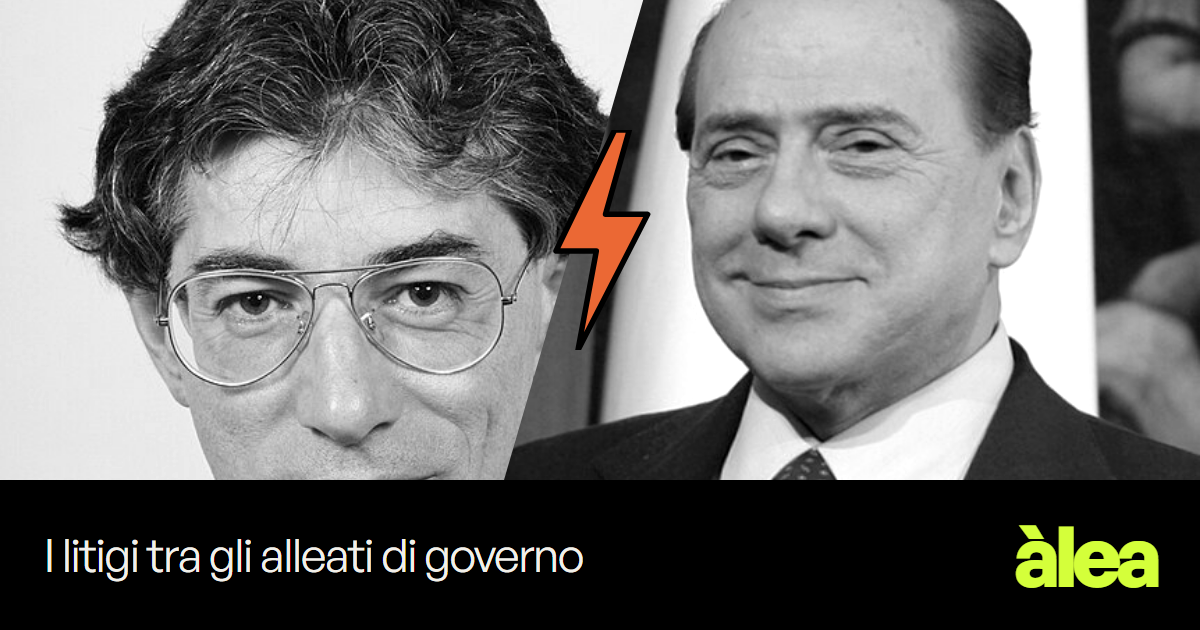
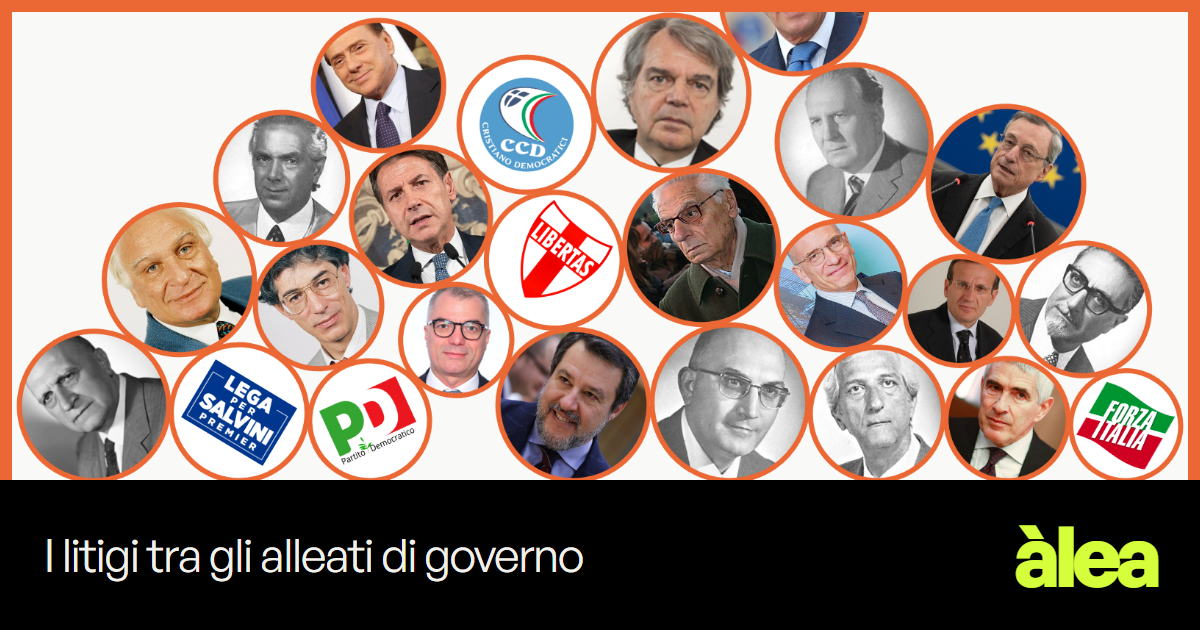
copertine: figurine verticali con cornice colorata, alla The Pudding
L'ultimo articolo resta orizzontale (16:10), gli altri diventano verticali (4:5). Le copertine sono immagini
generate da scripts/copertine/*.html con npm run copertine, in due formati.
- litigi: le teste dei politici e i simboli dei partiti ammucchiati, come nel carosello
- moneta: il confronto tra la sequenza inventata e una moneta vera
Le anteprime per i social usano le stesse copertine.

diff --git a/scripts/copertine/litigi.html b/scripts/copertine/litigi.html
@@ -1,0 +1,74 @@
+<!doctype html>
+<!-- Copertina del n. 1 (litigi tra alleati): le teste dei politici e i simboli dei partiti cadute e ammucchiate,
+     come nella prima slide del carosello (discorsi_camera/applausi/carosello/b3_pudding_template.html).
+     ?f=o orizzontale 1600x1000 (ultimo articolo), ?f=v verticale 1200x1500 (figurina). Si rigenera con npm run copertine -->
+<html lang="it">
+<head>
+<meta charset="utf-8">
+<style>
+  html, body { margin: 0; overflow: hidden; background: #f9f9f7; }
+  svg { display: block; }
+</style>
+</head>
+<body>
+<svg id="svg"></svg>
+<script>
+const f = new URLSearchParams(location.search).get("f") || "o";
+// misure per formato: larghezza, altezza, raggio delle teste (minimo + variabile), quanto si allarga il mucchio
+const M = f === "v" ? { W: 1200, H: 1500, r0: 96, dr: 40, spread: 300, suolo: 1500 - 120 }
+                    : { W: 1600, H: 1000, r0: 74, dr: 32, spread: 420, suolo: 1000 - 90 };
+const svg = document.getElementById("svg");
+svg.setAttribute("width", M.W); svg.setAttribute("height", M.H);
+svg.setAttribute("viewBox", `0 0 ${M.W} ${M.H}`);
+const NS = "http://www.w3.org/2000/svg";
+const el = (p, t, a) => { const e = document.createElementNS(NS, t); for (const k in a) e.setAttribute(k, a[k]); p.append(e); return e; };
+const defs = el(svg, "defs", {});
+
+// la linea del tempo su cui cadono
+el(svg, "line", { x1: 0, x2: M.W, y1: M.suolo + 2, y2: M.suolo + 2, stroke: "#0b0b0b", "stroke-width": 3 });
+
+// Piccola simulazione: le teste cadono una dopo l'altra, si urtano, rotolano e si fermano.
+// Caso con seme fisso: il mucchio è sempre lo stesso.
+let seme = 11;
+const caso = () => (seme = (seme * 16807) % 2147483647) / 2147483647;
+const TESTE = ["silvio_berlusconi", "umberto_bossi", "matteo_salvini", "mario_draghi", "giuseppe_conte", "enrico_letta", "renato_brunetta",
+  "gianfranco_fini", "pier_ferdinando_casini", "marco_pannella", "loris_fortuna", "angelo_castelli", "sergio_castellaneta", "alessandro_cè",
+  "filippo_scerra", "giovanni_roberti", "salvatore_frasca", "attilio_piccioni", "randolfo_pacciardi"].map((f) => ({ f, logo: false }))
+  .concat(["dc_1943", "fi_1994", "lega_2018", "pd", "ccd"].map((f) => ({ f, logo: true })));
+for (let i = TESTE.length - 1; i > 0; i--) { const j = Math.floor(caso() * (i + 1)); [TESTE[i], TESTE[j]] = [TESTE[j], TESTE[i]]; }
+TESTE.forEach((t, i) => {
+  t.r = M.r0 + caso() * M.dr;
+  t.x = M.W / 2 + (caso() + caso() + caso() - 1.5) * M.spread; t.y = -200 - i * 2.6 * M.r0;
+  t.px = t.x; t.py = t.y;
+  t.rot = (caso() - .5) * 80;
+});
+for (let passo = 0; passo < 7000; passo++) {
+  TESTE.forEach((t) => {                                     // gravità, con un po' di attrito
+    const vx = (t.x - t.px) * .9, vy = (t.y - t.py) * .99;
+    t.px = t.x; t.py = t.y;
+    t.x += vx; t.y += vy + .6;
+  });
+  for (let k = 0; k < 4; k++) {
+    for (let i = 0; i < TESTE.length; i++) for (let j = i + 1; j < TESTE.length; j++) {
+      const p = TESTE[i], q = TESTE[j], dx = q.x - p.x, dy = q.y - p.y, d = Math.hypot(dx, dy) || 1, min = p.r + q.r + 4;
+      if (d < min) { const m = (min - d) / 2 / d; p.x -= dx * m; p.y -= dy * m; q.x += dx * m; q.y += dy * m;
+        p.px += (p.x - p.px) * .35; q.px += (q.x - q.px) * .35; }
+    }
+    TESTE.forEach((t) => {
+      if (t.y > M.suolo - t.r) { t.y = M.suolo - t.r; t.px = t.x - (t.x - t.px) * .2; }   // il suolo frena chi ci rotola sopra
+      t.x = Math.min(M.W - 10 - t.r, Math.max(10 + t.r, t.x));
+    });
+  }
+}
+TESTE.forEach((t, n) => {
+  const id = "c" + n;
+  const g = el(svg, "g", { transform: `rotate(${t.rot.toFixed(1)} ${t.x} ${t.y})` });
+  el(el(defs, "clipPath", { id }), "circle", { cx: t.x, cy: t.y, r: t.r });
+  el(g, "circle", { cx: t.x, cy: t.y, r: t.r + 3, fill: "#fff" });
+  if (t.logo) el(g, "image", { href: `../../public/litigi-tra-alleati/loghi/${t.f}.png`, x: t.x - t.r * .7, y: t.y - t.r * .7, width: t.r * 1.4, height: t.r * 1.4, preserveAspectRatio: "xMidYMid meet" });
+  else el(g, "image", { href: `../../public/litigi-tra-alleati/foto/${t.f}.jpg`, x: t.x - t.r, y: t.y - t.r, width: 2 * t.r, height: 2 * t.r, preserveAspectRatio: "xMidYMid slice", "clip-path": `url(#${id})` });
+  el(g, "circle", { cx: t.x, cy: t.y, r: t.r, fill: "none", stroke: "#eb6834", "stroke-width": f === "v" ? 8 : 7 });
+});
+</script>
+</body>
+</html>

diff --git a/scripts/og/prova-a-fare-il-caso.html b/scripts/og/prova-a-fare-il-caso.html
@@ -1,50 +1,21 @@
 <!doctype html>
-<!-- Immagine di anteprima per i social (1200x630). Si rigenera con npm run og -->
+<!-- Immagine di anteprima per i social (1200x630): la copertina orizzontale (public/img/copertine/moneta-o.png)
+     con la cornice colorata e sotto il titolo. Si rigenera con npm run copertine e poi npm run og -->
 <html lang="it">
 <head>
 <meta charset="utf-8">
 <link href="https://api.fontshare.com/v2/css?f[]=general-sans@400,700&display=swap" rel="stylesheet">
 <style>
   html, body { margin: 0; width: 1200px; height: 630px; overflow: hidden; background: #000; font-family: "General Sans", sans-serif; }
-  /* la stessa copertina della home (src/components/Copertina.astro, "moneta"), ritagliata in 1200x480 */
-  .cop { position: absolute; left: 0; top: 0; width: 1200px; height: 480px; display: block; }
+  .cop { position: absolute; left: 0; top: 0; width: 1200px; height: 480px; box-sizing: border-box; border: 12px solid #c23a2b; border-bottom: 0;
+         background: url(../../public/img/copertine/moneta-o.png) center / cover; }
   .piede { position: absolute; left: 0; right: 0; bottom: 0; height: 150px; display: flex; align-items: center; justify-content: space-between; padding: 0 44px; color: #f2f0ea; }
   .tit { font-size: 46px; line-height: 1.05; letter-spacing: -0.03em; max-width: 840px; }
   .logo { font-weight: 700; font-size: 84px; letter-spacing: -0.075em; color: #d4ff3a; line-height: 1; }
 </style>
 </head>
 <body>
-  <svg class="cop" id="cop" viewBox="0 0 1600 1000" preserveAspectRatio="xMidYMid slice">
-    <defs>
-      <filter id="bic" color-interpolation-filters="sRGB">
-        <feColorMatrix type="saturate" values="0" />
-        <feComponentTransfer>
-          <feFuncR type="table" tableValues="0.12 0.957" />
-          <feFuncG type="table" tableValues="0.11 0.937" />
-          <feFuncB type="table" tableValues="0.10 0.89" />
-        </feComponentTransfer>
-      </filter>
-      <clipPath id="sx"><polygon points="0,0 930,0 690,1000 0,1000" /></clipPath>
-      <clipPath id="dx"><polygon points="970,0 1600,0 1600,1000 730,1000" /></clipPath>
-    </defs>
-    <rect width="1600" height="1000" fill="#f4efe3" />
-    <g clip-path="url(#sx)"><image href="../../public/img/eniac_operatrici.jpg" x="-60" y="0" width="1080" height="1000" preserveAspectRatio="xMidYMid slice" filter="url(#bic)" /></g>
-    <g clip-path="url(#dx)"><image href="../../public/img/ibm_704.jpg" x="700" y="0" width="900" height="1000" preserveAspectRatio="xMidYMid slice" filter="url(#bic)" /></g>
-    <!-- la linea un po' più in alto che in home: qui la foto è tagliata sopra e sotto -->
-    <g transform="translate(0,-130)">
-    <path id="alone" fill="none" stroke="#f4efe3" stroke-width="26" stroke-linejoin="round" stroke-linecap="round" />
-    <path id="linea" fill="none" stroke="#c23a2b" stroke-width="12" stroke-linejoin="round" stroke-linecap="round" />
-    </g>
-  </svg>
+  <div class="cop"></div>
   <div class="piede"><div class="tit">Non siamo bravi a simulare la casualità</div><div class="logo">àlea</div></div>
-<script>
-  // stessa passeggiata della copertina in home (seme 61)
-  function seme(a) { return () => { a |= 0; a = a + 0x6D2B79F5 | 0; let t = Math.imul(a ^ a >>> 15, 1 | a); t = t + Math.imul(t ^ t >>> 7, 61 | t) ^ t; return ((t ^ t >>> 14) >>> 0) / 4294967296; }; }
-  const r = seme(61);
-  let v = 0;
-  const d = "M" + Array.from({ length: 101 }, (_, i) => { if (i) v += r() < .5 ? 1 : -1; return `${40 + i * 15.2},${560 - v * 26}`; }).join("L");
-  document.getElementById("alone").setAttribute("d", d);
-  document.getElementById("linea").setAttribute("d", d);
-</script>
 </body>
 </html>

diff --git a/scripts/copertine/moneta.html b/scripts/copertine/moneta.html
@@ -1,0 +1,64 @@
+<!doctype html>
+<!-- Copertina del n. 2 (moneta): il confronto dell'articolo tra una sequenza inventata e una moneta vera,
+     con la serie più lunga evidenziata. Stesso stile di Desktop/moneta/moneta.html (.confronto).
+     ?f=o orizzontale 1600x1000 (griglie affiancate), ?f=v verticale 1200x1500 (una sopra l'altra).
+     Si rigenera con npm run copertine -->
+<html lang="it">
+<head>
+<meta charset="utf-8">
+<link href="https://fonts.googleapis.com/css2?family=Courier+Prime:wght@400;700&display=block" rel="stylesheet">
+<style>
+  :root { --fondo: #f4efe3; --testo: #1f1d19; --macchina: #3a3631; --tu: #c23a2b; --tu-testo: #b3352a; }
+  html, body { margin: 0; overflow: hidden; background: var(--fondo); font-family: "Courier Prime", monospace; }
+  .pagina { display: flex; align-items: center; justify-content: center; gap: 72px; }
+  .o .pagina { width: 1600px; height: 1000px; }
+  .v .pagina { width: 1200px; height: 1500px; flex-direction: column; gap: 56px; }
+  h3 { margin: 0 0 14px; font-size: 34px; font-weight: 700; }
+  .tu h3 { color: var(--tu-testo); }
+  .vera h3 { color: var(--testo); }
+  .griglia { display: grid; grid-template-columns: repeat(10, 1fr); gap: 5px; width: 640px; }
+  .v .griglia { width: 600px; }
+  .cella { aspect-ratio: 1; display: flex; align-items: center; justify-content: center; font-size: 30px; }
+  .tu .cella { color: var(--tu-testo); font-weight: 700; }
+  .vera .cella { color: var(--macchina); }
+  .tu .cella.serie { background: var(--tu); color: var(--fondo); }
+  .vera .cella.serie { background: var(--macchina); color: var(--fondo); font-weight: 700; }
+</style>
+</head>
+<body>
+<div class="pagina" id="pagina"></div>
+<script>
+const f = new URLSearchParams(location.search).get("f") || "o";
+document.body.className = f;
+
+// generatore con seme (mulberry32): le due sequenze sono sempre le stesse
+function seme(a) { return () => { a |= 0; a = a + 0x6D2B79F5 | 0; let t = Math.imul(a ^ a >>> 15, 1 | a); t = t + Math.imul(t ^ t >>> 7, 61 | t) ^ t; return ((t ^ t >>> 14) >>> 0) / 4294967296; }; }
+function serieLunga(s) {
+  let max = 1, cur = 1, fine = 0;
+  for (let i = 1; i < s.length; i++) { cur = s[i] === s[i - 1] ? cur + 1 : 1; if (cur > max) { max = cur; fine = i; } }
+  return { lung: max, da: fine - max + 1, a: fine };
+}
+const cambi = (s) => s.reduce((n, x, i) => n + (i && x !== s[i - 1] ? 1 : 0), 0);
+
+// inventata: le stesse abitudini della sequenza di esempio dell'articolo (dopo una serie, la voglia di cambiare cresce);
+// si tiene la prima con serie più lunga di 4 e troppi cambi
+const r = seme(2026), voglia = [0, .55, .65, .85, .95, 1];
+let inventata;
+do {
+  inventata = []; let x = r() < .5 ? 1 : 0, u = 0;
+  for (let i = 0; i < 100; i++) { inventata.push(x); u++; if (r() < voglia[Math.min(u, 5)]) { x = 1 - x; u = 0; } }
+} while (serieLunga(inventata).lung !== 4 || cambi(inventata) < 60);
+// vera: 100 lanci veri, la prima con una serie di 7 (succede spesso: la media è circa 7)
+let vera;
+do { vera = Array.from({ length: 100 }, () => (r() < .5 ? 1 : 0)); } while (serieLunga(vera).lung !== 7);
+
+const griglia = (s) => {
+  const l = serieLunga(s);
+  return `<div class="griglia">${s.map((x, i) => `<div class="cella${i >= l.da && i <= l.a ? " serie" : ""}">${x ? "T" : "C"}</div>`).join("")}</div>`;
+};
+document.getElementById("pagina").innerHTML =
+  `<div class="tu"><h3>sequenza inventata</h3>${griglia(inventata)}</div>` +
+  `<div class="vera"><h3>moneta vera</h3>${griglia(vera)}</div>`;
+</script>
+</body>
+</html>

diff --git a/scripts/og/litigi-tra-alleati.html b/scripts/og/litigi-tra-alleati.html
@@ -1,26 +1,21 @@
 <!doctype html>
-<!-- Immagine di anteprima per i social (1200x630). Si rigenera con npm run og -->
+<!-- Immagine di anteprima per i social (1200x630): la copertina orizzontale (public/img/copertine/litigi-o.png)
+     con la cornice colorata e sotto il titolo. Si rigenera con npm run copertine e poi npm run og -->
 <html lang="it">
 <head>
 <meta charset="utf-8">
 <link href="https://api.fontshare.com/v2/css?f[]=general-sans@400,700&display=swap" rel="stylesheet">
 <style>
   html, body { margin: 0; width: 1200px; height: 630px; overflow: hidden; background: #000; font-family: "General Sans", sans-serif; }
-  .cop { position: absolute; inset: 0 0 150px 0; background: #f3efe6; overflow: hidden; }
-  .ph { position: absolute; top: 0; bottom: 0; width: 58%; background-size: cover; background-position: center 22%; filter: grayscale(1) contrast(1.1); }
-  .sx { left: 0; background-image: url(../../public/img/umberto_bossi.jpg); clip-path: polygon(0 0, 100% 0, 80% 100%, 0 100%); }
-  .dx { right: 0; background-image: url(../../public/img/silvio_berlusconi.jpg); clip-path: polygon(20% 0, 100% 0, 100% 100%, 0 100%); }
-  .lampo { position: absolute; left: 50%; top: 50%; width: 110px; transform: translate(-50%, -50%); }
+  .cop { position: absolute; left: 0; top: 0; width: 1200px; height: 480px; box-sizing: border-box; border: 12px solid #eb6834; border-bottom: 0;
+         background: url(../../public/img/copertine/litigi-o.png) center 75% / cover;   /* 75%: il mucchio sta in basso, non tagliarlo */ }
   .piede { position: absolute; left: 0; right: 0; bottom: 0; height: 150px; display: flex; align-items: center; justify-content: space-between; padding: 0 44px; color: #f2f0ea; }
   .tit { font-size: 46px; line-height: 1.05; letter-spacing: -0.03em; max-width: 840px; }
   .logo { font-weight: 700; font-size: 84px; letter-spacing: -0.075em; color: #d4ff3a; line-height: 1; }
 </style>
 </head>
 <body>
-  <div class="cop">
-    <div class="ph sx"></div><div class="ph dx"></div>
-    <svg class="lampo" viewBox="0 0 60 120"><polygon points="38,0 6,66 28,66 18,120 56,46 33,46 46,0" fill="#eb6834" stroke="#000" stroke-width="3" stroke-linejoin="round"/></svg>
-  </div>
+  <div class="cop"></div>
   <div class="piede"><div class="tit">I litigi tra gli alleati di governo</div><div class="logo">àlea</div></div>
 </body>
 </html>

diff --git a/src/data/articoli.js b/src/data/articoli.js
@@ -1,6 +1,7 @@
 // Elenco degli articoli, dal più recente. Le pagine degli articoli si importano in public/ con npm run articoli.
-// copertina: "litigi" e "moneta" hanno una copertina disegnata apposta (src/components/Copertina.astro);
-// per gli altri basta { colore, testo } oppure, più avanti, un'immagine.
+// copertina: nome dell'immagine in public/img/copertine (<nome>-o.png orizzontale, <nome>-v.png verticale),
+//   generata da scripts/copertine/<nome>.html con npm run copertine; per le bozze basta { colore, testo }.
+// colore: la cornice della copertina, sopra e ai lati (alla The Pudding).
 // bozza: true -> compare solo con npm run dev, mai nel sito pubblicato
 export const ARTICOLI = [
   {
@@ -11,6 +12,7 @@ export const ARTICOLI = [
     sommario: "Inventa cento lanci di moneta: un programma che non sa niente di te proverà a prevederli. Poi li confrontiamo con una moneta vera.",
     url: "/prova-a-fare-il-caso/",
     copertina: "moneta",
+    colore: "#c23a2b",
   },
   {
     numero: 1,
@@ -20,6 +22,7 @@ export const ARTICOLI = [
     sommario: "Governano insieme e votano insieme la fiducia, ma in aula si contestano: 1.047 volte, alla Camera, dal 1948 al 2022.",
     url: "/litigi-tra-alleati/",
     copertina: "litigi",
+    colore: "#eb6834",
   },
   // segnaposto per vedere la griglia mentre si lavora
   { bozza: true, tema: "statistica", titolo: "Il tuo numero «a caso» non è casuale", sommario: "Perché tutti scelgono il 7.", copertina: { colore: "#b9a5ff", testo: "7" } },
